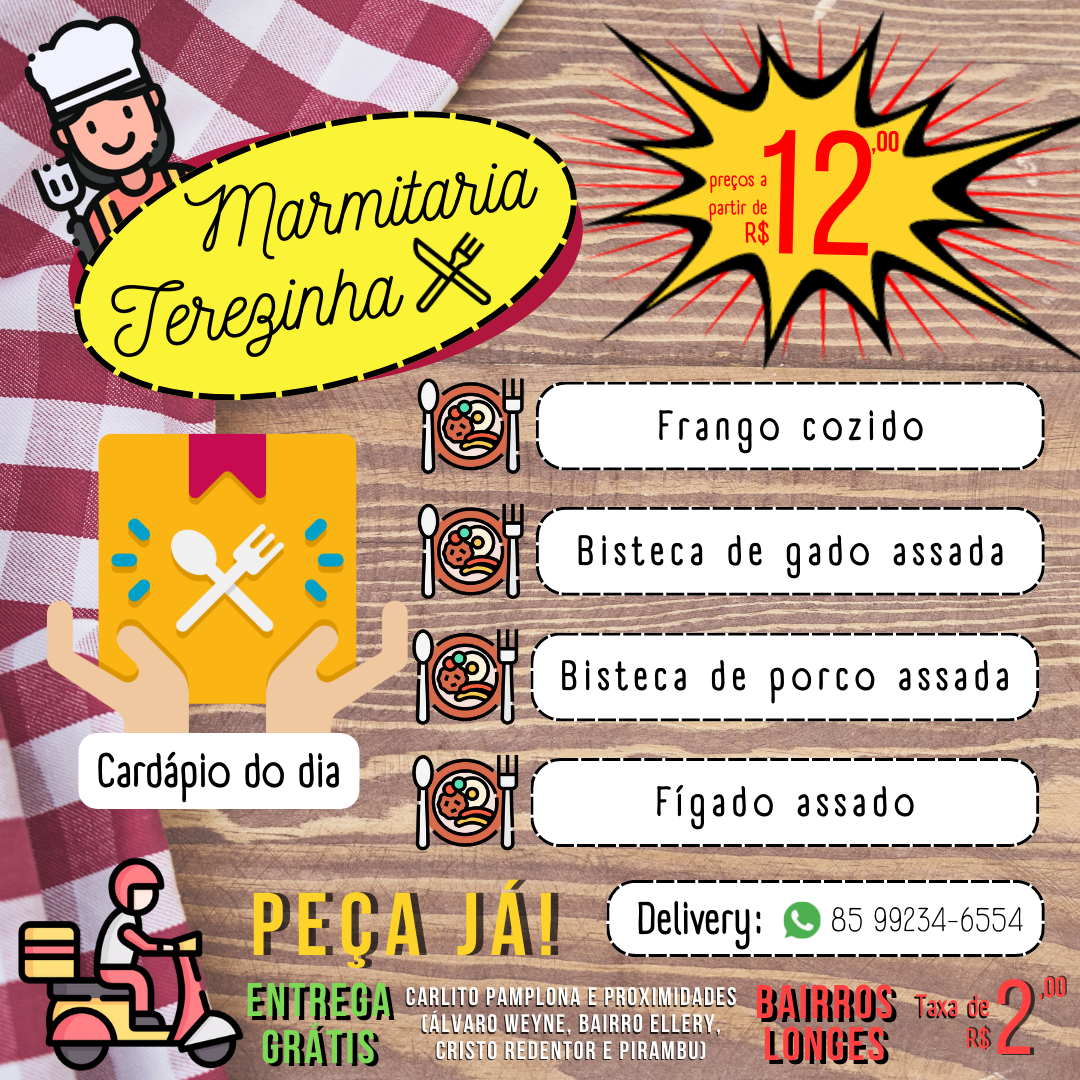
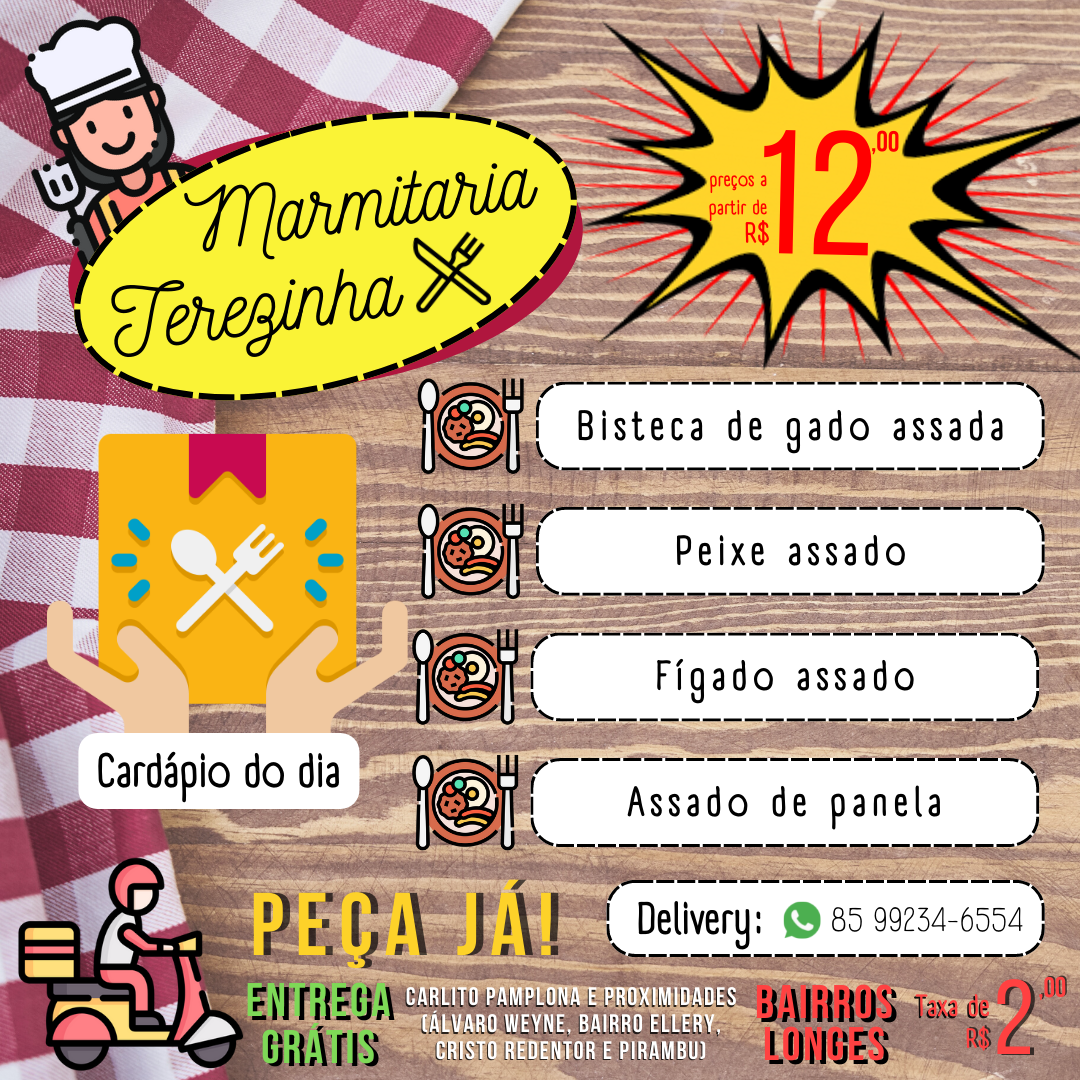
Atualização do cardápio de Sexta

diff --git a/assets/scripts/changeMenu.js b/assets/scripts/changeMenu.js
@@ -57,10 +57,10 @@ switch (weekday) {
     break
   case 5:
     console.log('Hoje é sexta-feira!')
-    meal01.textContent = 'Frango cozido'
-    meal02.textContent = 'Bisteca de gado assada'
-    meal03.textContent = 'Bisteca de porco assada'
-    meal04.textContent = 'Fígado assado'
+    meal01.textContent = 'Bisteca de gado assada'
+    meal02.textContent = 'Peixe assado'
+    meal03.textContent = 'Fígado assado'
+    meal04.textContent = 'Assado de panela'
     hasImage('./assets/img/menu/menuSex.png', 'Sexta-feira | Marmitaria Terezinha')
     break
   case 6:
